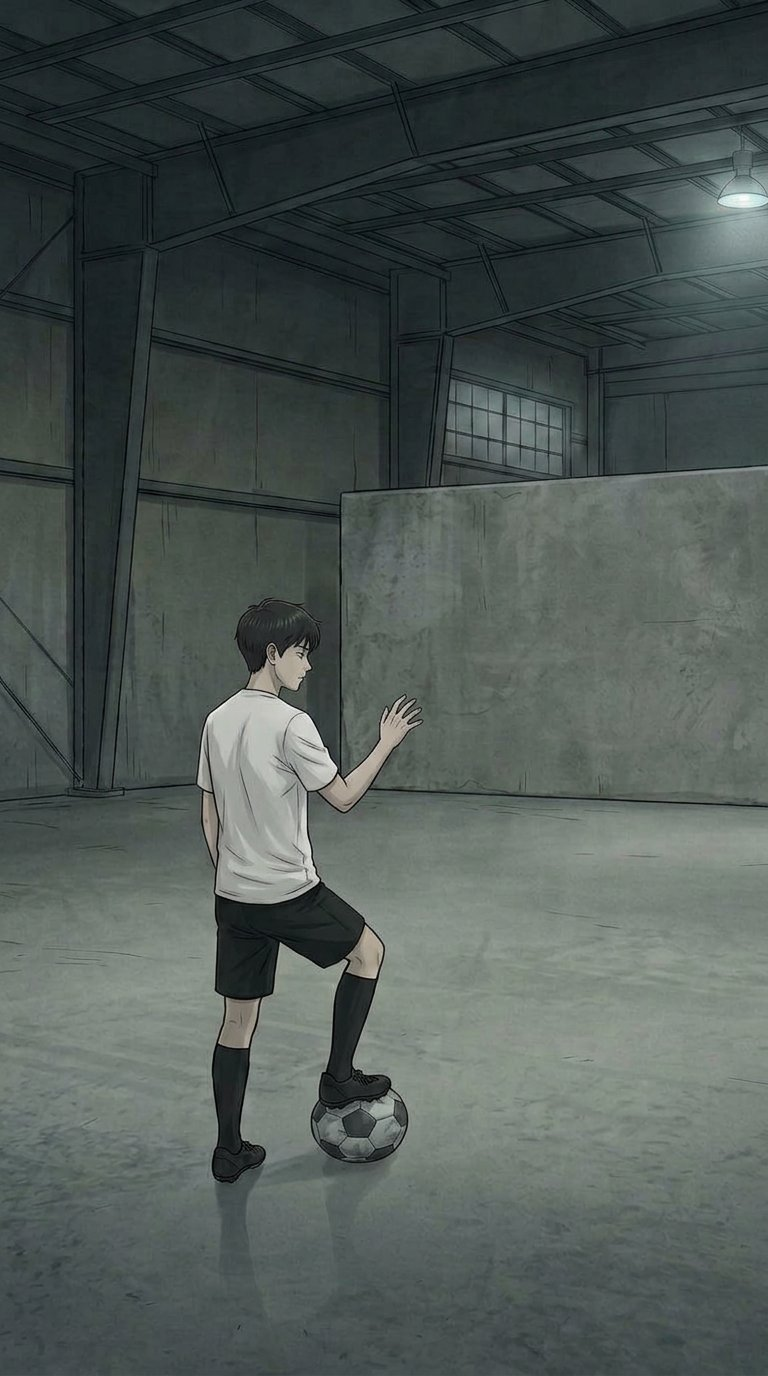
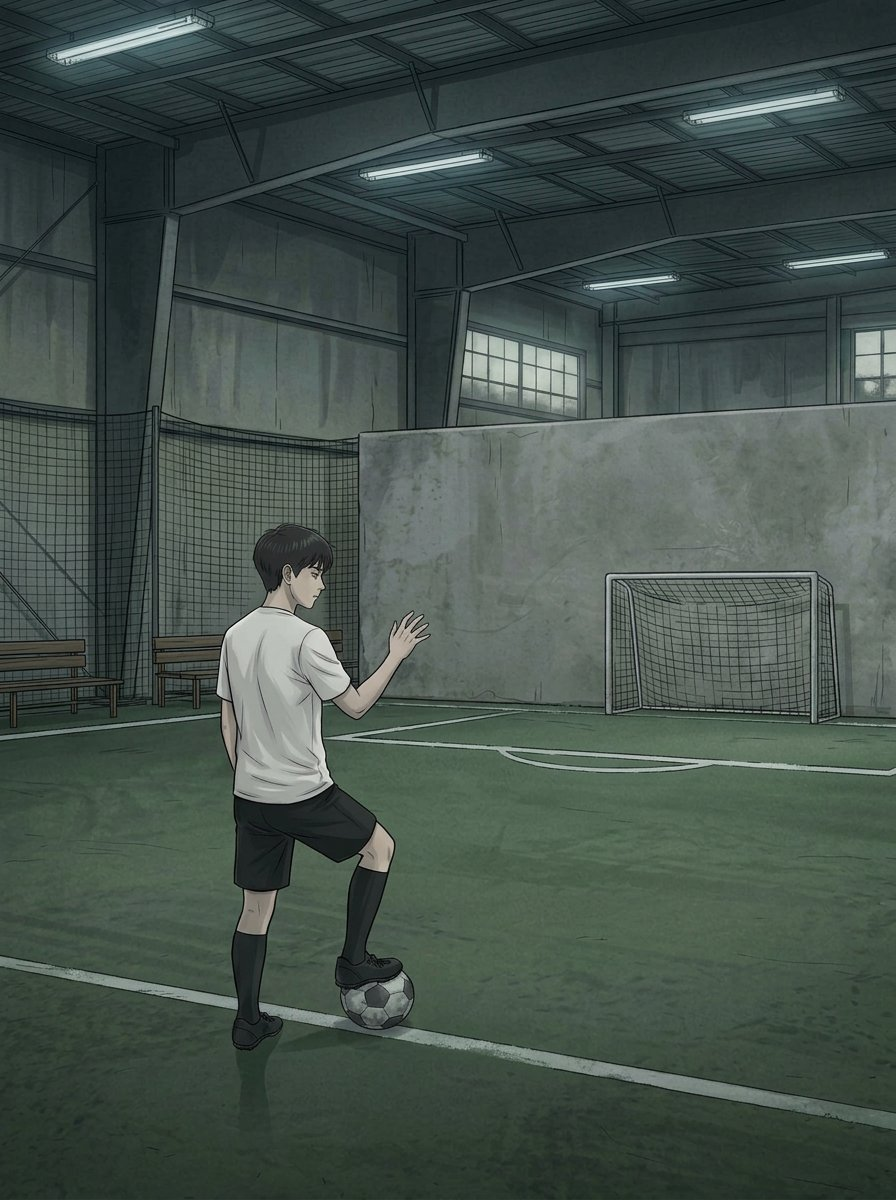
Replace chapter two warehouse with indoor pitch

diff --git a/docs/QC_CH1-5_2026-11-13.md b/docs/QC_CH1-5_2026-11-13.md
@@ -260,6 +260,11 @@
 - **глава 2 · кадры 12–13 · было → стало · почему:** было — после формального выполнения задания Система подводила итог с `ОБЩ` и ИВ → стало — Ветров спрашивает `А завтра можно прийти?`, сторож отвечает `После четырёх зал свободен`, и только после этого отдельное окно пишет `ДОБРО ПОЖАЛОВАТЬ, ИГРОК` без награды и итогов → почему: название главы отвечает на человеческий выбор продолжить, а не на чек-лист.
 - **глава 2 · clean art · было → стало · почему:** было — `clean-art-v1` готов `10/11`, а сюжетные кадры `06/09` сохраняли отменённые условия → стало — утверждён `script-v2`, clean art синхронизирован и завершён `11/11`; сводный лист `CH2_CLEAN_ART_SHEET.jpg` проверен визуально; все 11 файлов валидны как RGB не меньше `768×1264`, медиана насыщенности набора `13.3`, кадр `14` побайтово сохранён; legacy-ресурсы, панели, леттеринг и скролл не изменены → почему: закрыть разрешённую производственную стадию без выхода в запрещённые панели и сборку. Это шаг `5/5` и основание `CHECKPOINT #6`.
 
+### 43. Глава 2 · склад заменён узнаваемым мини-футбольным манежем
+- **глава 2 · кадры 05, 06, 08–10 и 12 · было → стало · почему:** было — единая бетонная география формально устраняла скачки помещений, но визуально читалась как промышленный склад с отдельно поставленной стеной, а не футбольный манеж → стало — автор выбрал вариант **«Небольшое крытое поле»**; все шесть тренировочных кадров получили выцветший тёмно-зелёный искусственный газон, обычную белую мини-футбольную разметку, компактные ворота, защитные сетки, скамейки, низкую кровлю на стальных фермах и холодные люминесцентные лампы → почему: место должно распознаваться как футбольное до появления текста и интерфейса.
+- **глава 2 · кадр 08 · было → стало · почему:** было — первая версия зелёного покрытия в крупном плане напоминала длинную уличную траву → стало — поверхность заменена на короткий изношенный синтетический ковёр с резиновой крошкой → почему: сохранить масштаб и материальность старого крытого мини-поля.
+- **глава 2 · clean art · было → стало · почему:** было — сводный лист показывал бетонный склад, медиана насыщенности набора была `13.3` → стало — `CH2_CLEAN_ART_SHEET.jpg` пересобран с единым крытым полем; clean art остаётся `11/11`, все файлы валидны как RGB не меньше `768×1200`, медиана насыщенности стала `19.4` из-за зелёного покрытия; legacy-ресурсы, панели, леттеринг, сборщики и лента не затронуты → почему: применить авторское визуальное замечание только к разрешённому слою чистых изображений. Это шаг `1/5` после `CHECKPOINT #6`.
+
 ---
 
 # ОСТАЛОСЬ (не закрыто)

diff --git a/docs/WORKFLOW_LOG.md b/docs/WORKFLOW_LOG.md
@@ -19,13 +19,13 @@ _Проект: «ПОКА ПОВРЕМЕНИМ», том 1 (главы 1–5) ·
 ## Текущий счётчик
 
 - **Последняя контрольная точка:** `CHECKPOINT #6` — `2026-11-17` (Глава 2 `script-v2`: отказ от тренировочного квеста и условий; clean art завершён `11/11`).
-- **Шагов с последнего чекпоинта:** **`0 / 5`**
+- **Шагов с последнего чекпоинта:** **`1 / 5`**
 - **Следующая обязательная фиксация документации в Git:** на шаге **`5 / 5`** (`CHECKPOINT #7`) либо сразу после отдельного разрешения на панели/леттеринг.
-- **Активная глава:** **Глава 2 «ДОБРО ПОЖАЛОВАТЬ, ИГРОК»** (`script-v2` утверждён; clean art `11/11`; панели `07/11/13`, леттеринг, кириллица двери и новая лента пока запрещены).
+- **Активная глава:** **Глава 2 «ДОБРО ПОЖАЛОВАТЬ, ИГРОК»** (`script-v2`; clean art `11/11`; после замечания автора тренировочные кадры приведены к небольшому крытому мини-футбольному полю; панели и сборка запрещены).
 
 ### Текущая пятёрка шагов (к `CHECKPOINT #7`)
 
-- [ ] Шаг 1/5 — _авторское решение по clean art либо отдельное разрешение на панели/леттеринг_.
+- [x] Шаг 1/5 — складской зал отвергнут; автор выбрал **«Небольшое крытое поле»**, после чего кадры `05/06/08/09/10/12` синхронизированы по искусственному газону, воротам, сеткам и низкой металлической кровле.
 - [ ] Шаг 2/5 — _свободно_.
 - [ ] Шаг 3/5 — _свободно_.
 - [ ] Шаг 4/5 — _свободно_.
@@ -58,6 +58,7 @@ _Проект: «ПОКА ПОВРЕМЕНИМ», том 1 (главы 1–5) ·
 - Ранг, квест, `300`, квадрат `3×3`, таймер, `ВЫПОЛНЕНО`, `БЕЗ ИЗМЕНЕНИЙ` и сообщение о фиксации тренировки удалены из канона Главы 2.
 - Начальная мысль сокращена до `Луке пока не написал.`; план проверки раскрывается действием и двумя одинаковыми вызовами профиля.
 - Clean art `11/11`: `01–06`, `08–10`, `12`, `14`. В кадрах `06/09` удалены квадрат и настенная мишень; `10` показывает обычный слишком сильный приём и движение Ветрова за мячом.
+- После замечания `манеж не похож на манеж` автор выбрал вариант **«Небольшое крытое поле»**: кадры `05/06/08/09/10/12` теперь разделяют выцветший искусственный газон, обычную белую разметку, компактные ворота, защитные сетки, низкую кровлю и холодные люминесцентные лампы; медиана насыщенности clean-набора `19.4`.
 - `v2_14_room_night.jpg` побайтово совпадает с `c_lamp_off.jpg`; финальная комната остаётся полностью без текста.
 - Панели `07/11/13`, баблы, мысли, SFX, точная кириллица двери, сборщики и новая лента ждут отдельного разрешения автора.
 

diff --git a/README.md b/README.md
@@ -13,7 +13,7 @@
 | Глава | Название | Статус | Кадров | Лента (`px`) | Насыщ. (мед.) | Панели Системы |
 |---|---|---|---:|---|---:|---|
 | **1** | **ПЕРВАЯ НЕДЕЛЯ** | **УТВЕРЖДЕНА автором 2026-11-16 · канон `v13` + `curve-v1`** | 28 | `800×49757` | `15.1` | `p07_quest` (`26→28`), `p23_fail` (без штрафа), `p37_day` (профиль + ИВ 68), `p38_shop` (10 товаров без сообщения о нехватке) |
-| **2** | **ДОБРО ПОЖАЛОВАТЬ, ИГРОК** | **`script-v2` утверждён: без квеста и условий; clean art готов 11/11, панели, леттеринг и лента не запускались** | 13 legacy / 14 утверждено | `800×21460` legacy | `15.1` legacy / `13.3` clean | будущие панели: профиль `42` до/после + `ДОБРО ПОЖАЛОВАТЬ, ИГРОК` |
+| **2** | **ДОБРО ПОЖАЛОВАТЬ, ИГРОК** | **`script-v2` утверждён: без квеста и условий; clean art 11/11 приведён к небольшому крытому футбольному полю, панели, леттеринг и лента не запускались** | 13 legacy / 14 утверждено | `800×21460` legacy | `15.1` legacy / `19.4` clean | будущие панели: профиль `42` до/после + `ДОБРО ПОЖАЛОВАТЬ, ИГРОК` |
 | **3** | **ИЗ УВАЖЕНИЯ К ТАЙМИНГУ** | Ожидает гл. 2 (панели обновлены; в очереди правка заявки на 18 чел.) | 12 | `800×19850` | `13.9` | `p09_quest` (`F+`), `p22_done` (`3/3`) |
 | **4** | **ПРОТОКОЛ 1:0** | Ожидает гл. 3 (панели обновлены; в очереди выравнивание температуры) | 11 | `800×18240` | `26.6` | `p09_quest` (`F+`), `p28_done` (`3/3 · 6.6`) |
 | **5** | **У ТЕБЯ В ГОЛОВЕ СЛИШКОМ ТИХО** | Ожидает гл. 4 (панели обновлены) | 11 | `800×18240` | `11.0` | `p15_choice` (`F−/F/F+`), `p25_done` (`38→39`) |
@@ -32,7 +32,7 @@
 | `docs/CH2_PRODUCTION_PLAN.md` | Производственная таблица, паспорт единого манежа и статус `clean-art-v2` `11/11`; панели и сборка ещё запрещены. |
 | `CH2_CLEAN_ART_SHEET.jpg` | Сводный лист всех 11 утверждённых сюжетных основ Главы 2 без интерфейса и леттеринга. |
 | `docs/SYSTEM_PROGRESSION.md` | Утверждённая `curve-v1`: скрытая ступенчатая стоимость роста характеристик, правила отображения без XP/прогресс-баров и контрольные примеры. |
-| `docs/QC_CH1-5_2026-11-13.md` | Полный журнал всех правок в строгом формате `глава N · кадр NN · было → стало · почему` (п. 1–42). |
+| `docs/QC_CH1-5_2026-11-13.md` | Полный журнал всех правок в строгом формате `глава N · кадр NN · было → стало · почему` (п. 1–43). |
 | `HANDOFF.md` | Архивный исходный handoff от 2026-11-13; его механика Главы 1 заменена v13. Актуальные значения берутся из `build_ch1_system.py`, `docs/CHAPTERS.md` и журнала QC. |
 
 ---

diff --git a/docs/CHAPTERS.md b/docs/CHAPTERS.md
@@ -1,6 +1,6 @@
 # РАСКАДРОВКА, ПЕРСОНАЖИ И ТЕХНИЧЕСКАЯ СПЕЦИФИКАЦИЯ
 
-_Актуальное состояние после `CHECKPOINT #6` (2026-11-17), счётчик новой пятёрки `0/5`. Глава 1 `v13`, `curve-v1` и партитура Главы 2 `script-v2` утверждены автором. Clean art Главы 2 готов `11/11`; панели, леттеринг и лента заблокированы до отдельного решения._
+_Актуальное состояние после `CHECKPOINT #6` (2026-11-17), счётчик новой пятёрки `1/5`. Глава 1 `v13`, `curve-v1` и партитура Главы 2 `script-v2` утверждены автором. По авторскому замечанию складской зал заменён единым небольшим крытым футбольным полем; clean art остаётся `11/11`. Панели, леттеринг и лента заблокированы._
 
 ---
 
@@ -70,7 +70,7 @@ _Актуальное состояние после `CHECKPOINT #6` (2026-11-17)
 
 ## 3 · Главы 2–5 — сводка канона и файлов
 
-Глава 1 утверждена, поэтому **активна только Глава 2**. Её исходные 13 кадров и старые панели сохранены без изменений. Утверждённая последовательность `script-v2` из 14 кадров находится в `docs/CH2_SCRIPT.md`; покадровый разбор `1 сохранить / 7 переработать / 6 заменить` и завершённый clean art `11/11` — в `docs/CH2_PRODUCTION_PLAN.md`. Главы 3–5, панели и сборка Главы 2 остаются замороженными до отдельных решений.
+Глава 1 утверждена, поэтому **активна только Глава 2**. Её исходные 13 кадров и старые панели сохранены без изменений. Утверждённая последовательность `script-v2` из 14 кадров находится в `docs/CH2_SCRIPT.md`; покадровый разбор и clean art `11/11` с единым небольшим крытым мини-футбольным полем — в `docs/CH2_PRODUCTION_PLAN.md`. Главы 3–5, панели и сборка Главы 2 остаются замороженными до отдельных решений.
 
 | Глава | Папка | Кадров в ленте | Состояние характеристик | Сумма / ОБЩ | ИВ |
 |---|---|---:|---|---|---:|

diff --git a/HANDOFF.md b/HANDOFF.md
@@ -1,6 +1,6 @@
 # HANDOFF · «ПОКА ПОВРЕМЕНИМ» · том 1, главы 1–5
 
-> **АРХИВНЫЙ HANDOFF ОТ 2026-11-13.** Глава 1 `v13` и кривая `curve-v1` утверждены автором 2026-11-16 и заменили изложенные ниже механику провала, таблицу характеристик Главы 1, тексты её панелей и линейное понимание роста. Источники утверждённого канона: `build_ch1_system.py`, `docs/CHAPTERS.md`, `docs/SYSTEM_PROGRESSION.md` и QC п. 37–38. Активна Глава 2; её `script-v2` утверждён автором 2026-11-17: тренировочного квеста, `300`, квадрата и таймера больше нет. Clean art готов `11/11`; стоп на панели/леттеринг/ленту зафиксирован в `docs/CH2_PRODUCTION_PLAN.md`. Исходные панели и числа этого handoff остаются legacy.
+> **АРХИВНЫЙ HANDOFF ОТ 2026-11-13.** Глава 1 `v13` и кривая `curve-v1` утверждены автором 2026-11-16 и заменили изложенные ниже механику провала, таблицу характеристик Главы 1, тексты её панелей и линейное понимание роста. Источники утверждённого канона: `build_ch1_system.py`, `docs/CHAPTERS.md`, `docs/SYSTEM_PROGRESSION.md` и QC п. 37–38. Активна Глава 2; её `script-v2` утверждён автором 2026-11-17: тренировочного квеста, `300`, квадрата и таймера больше нет. Clean art готов `11/11`; единый эталон тренировочных кадров — небольшое крытое мини-футбольное поле с искусственным газоном, воротами и защитными сетками. Стоп на панели/леттеринг/ленту зафиксирован в `docs/CH2_PRODUCTION_PLAN.md`. Исходные панели и числа этого handoff остаются legacy.
 
 **Исходный самодостаточный документ.** Не требует старых путей: всё нужное — здесь или в архиве `VEBTUN_CH1-5_BUNDLE.zip`. Дата исходника: 2026-11-13.
 
